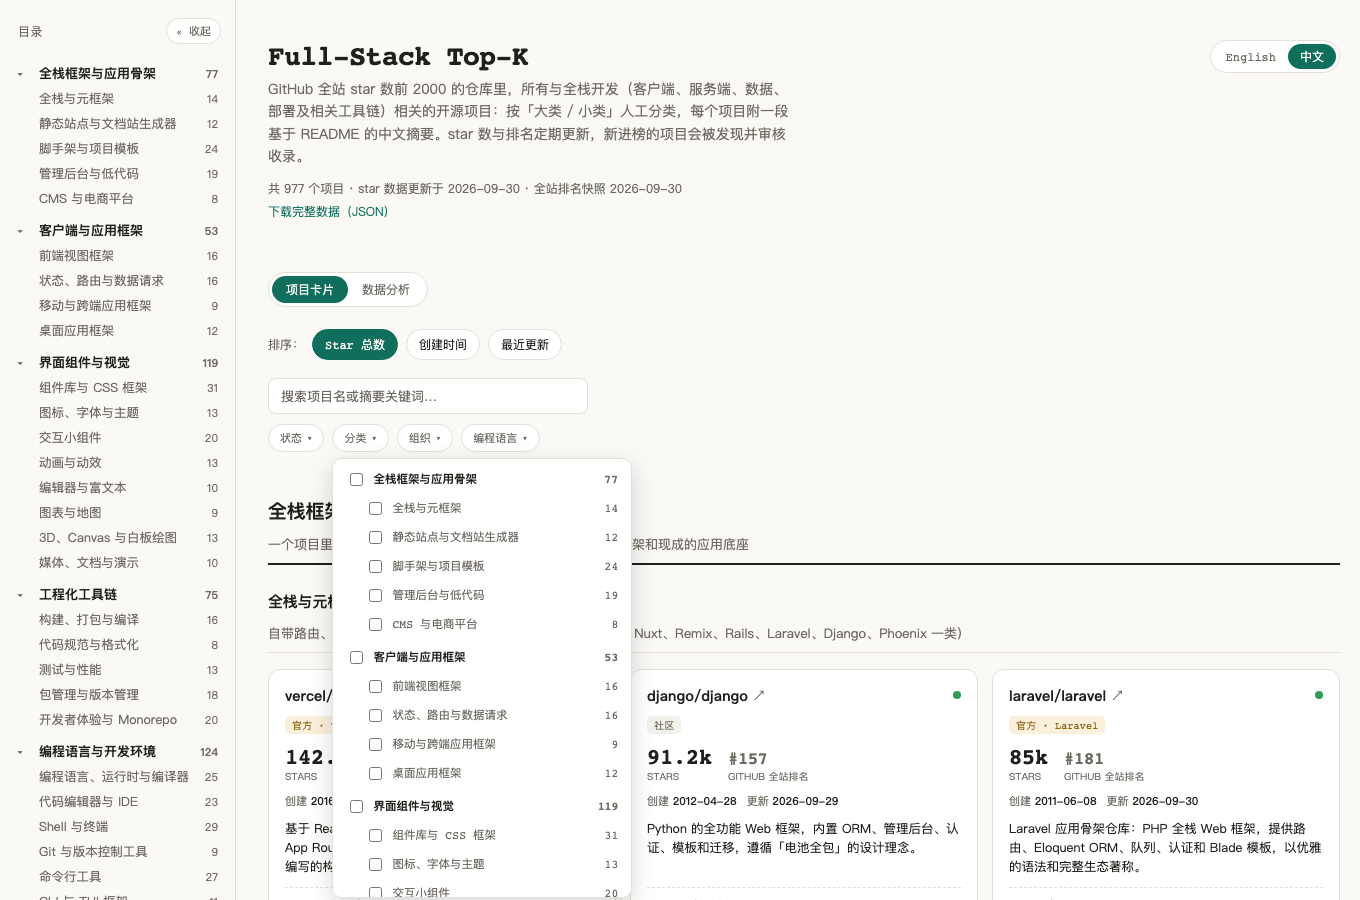
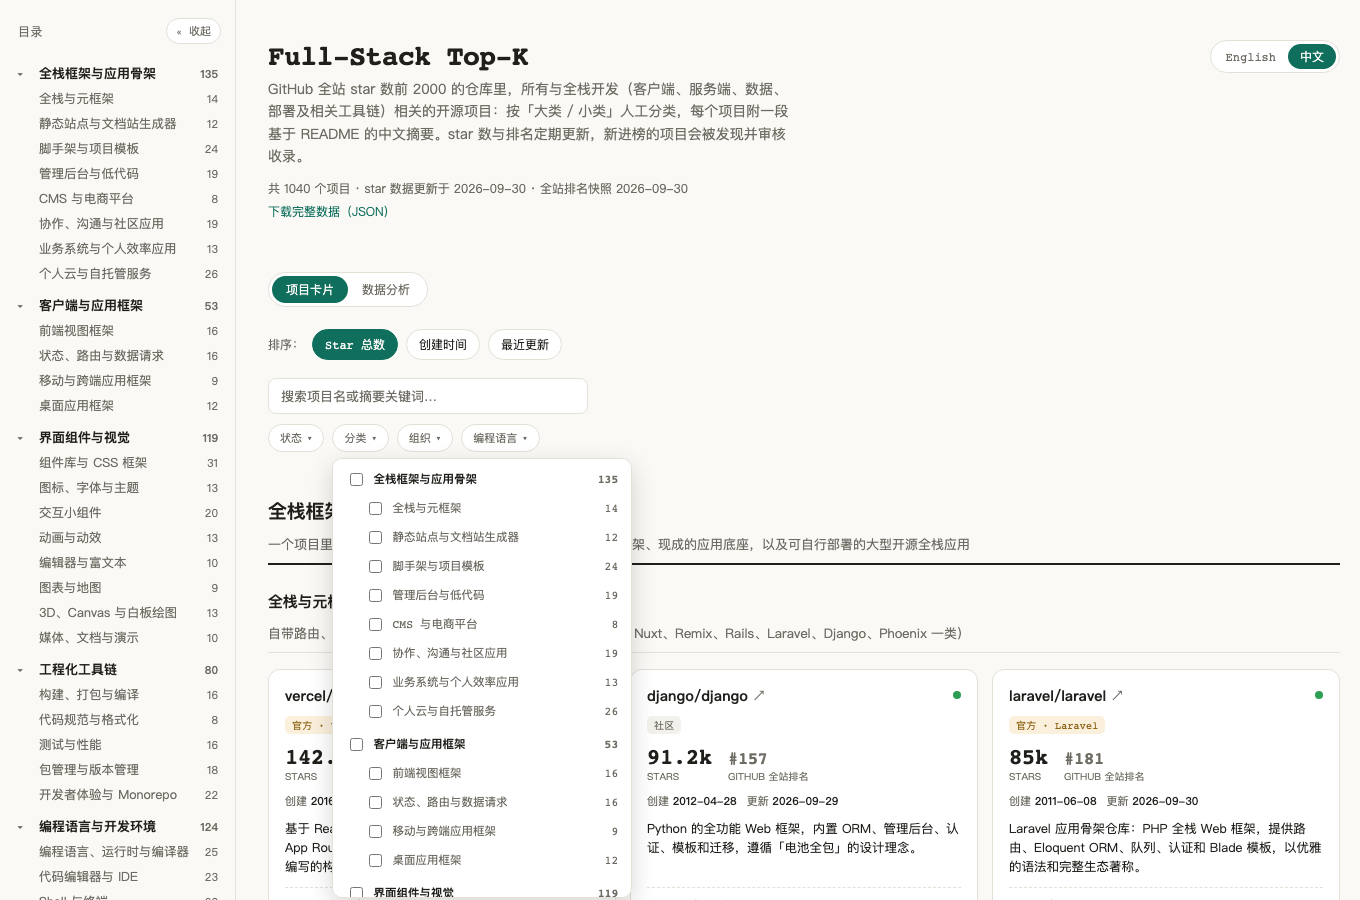
docs: describe self-hostable apps and CI security scanning as in scope
Update the scope, counts (1040 projects, 11 categories, 63 subcategories),
and screenshots.

diff --git a/.claude/CLAUDE.md b/.claude/CLAUDE.md
@@ -24,14 +24,14 @@ python3 scripts/candidates.py           # 找出待审核的新仓库，写入 d
 
 ## 收录标准
 
-**收录**：全栈不止 Web，核心功能是「端到端构建、运行并交付软件要用到的东西」，包括：全栈 / 元框架、脚手架与模板、管理后台与低代码 / 无头 CMS / 无头电商；客户端（前端框架与状态管理、UI 组件库与 CSS、Android / iOS / Flutter / React Native / Electron / Tauri / 小程序、构建与工程化工具链）；服务端（后端与微服务框架、面向应用开发的语言本体与运行时、API 层与网关、数据库 / ORM / BaaS、缓存 / 消息队列 / 搜索等中间件、认证与身份、数据处理与 BI）；交付（Docker / Kubernetes / Terraform 等容器与基础设施即代码、部署与自托管平台、CI/CD 与自托管 Git 平台、监控与可观测）；开发者自己的工具与底层基础，归 `devtools`（编程语言与编译器基础设施、独立编辑器与 IDE、命令行与终端工具、CLI / TUI 框架；C / C++ 通用库归 `libs`）；以及路线图、教程（含语言入门、命令行 / Git / 正则、操作系统底层学习资料）、系统设计与面试资料、设计模式与编码规范、算法与数据结构（多语言实现、刷题题解、可视化）、Awesome 清单（含 C++ / Rust / Shell / 自托管 / 系统管理等开发生态）。
+**收录**：全栈不止 Web，核心功能是「端到端构建、运行并交付软件要用到的东西」，包括：全栈 / 元框架、脚手架与模板、管理后台与低代码 / 无头 CMS / 无头电商；客户端（前端框架与状态管理、UI 组件库与 CSS、Android / iOS / Flutter / React Native / Electron / Tauri / 小程序、构建与工程化工具链）；服务端（后端与微服务框架、面向应用开发的语言本体与运行时、API 层与网关、数据库 / ORM / BaaS、缓存 / 消息队列 / 搜索等中间件、认证与身份、数据处理与 BI）；交付（Docker / Kubernetes / Terraform 等容器与基础设施即代码、部署与自托管平台、CI/CD 与自托管 Git 平台、监控与可观测、CI 中运行的安全扫描）；可自托管的大型开源 Web / 服务端应用，归 `fullstack` 下的 `apps-*` 三个小类（协作与社区、业务系统、个人云与自托管服务）；开发者自己的工具与底层基础，归 `devtools`（编程语言与编译器基础设施、独立编辑器与 IDE、命令行与终端工具、CLI / TUI 框架；C / C++ 通用库归 `libs`）；以及路线图、教程（含语言入门、命令行 / Git / 正则、操作系统底层学习资料）、系统设计与面试资料、设计模式与编码规范、算法与数据结构（多语言实现、刷题题解、可视化）、Awesome 清单（含 C++ / Rust / Shell / 自托管 / 系统管理等开发生态）。
 
 **不收录**：
 - 核心功能是机器学习 / 深度学习 / LLM / Agent 的项目（归 `github-ai-topk`），包括应用层的 LLM 接入 SDK / 工具，即使技术栈是 Web。numpy / pandas 这类 ML 地基库也归那边，这边不收；
 - 与开发无关的通用书单（编程书单、CS 自学路线、算法与数据结构、系统设计、面试指南都收）；
 - 操作系统内核与发行版、数据库以外的纯系统软件、纯运维工具（只做机器管理、与应用交付无关的）；
-- 游戏及游戏引擎、区块链、安全与渗透工具、物联网与硬件，以及「给最终用户用」的终端用户应用（笔记软件、播放器、下载器、代理客户端、桌面实用工具等）。
-- 数据工程如 Airflow / Spark / dbt、DataFrame 引擎和 BI 平台可收，放 `data` 下的 `dataflow`；开发者自己每天用的编辑器 / IDE、终端与命令行工具收，放 `devtools`。判断标准是「开发者拿它来构建软件」还是「最终用户拿它来完成别的事」。
+- 游戏及游戏引擎、区块链、渗透与逆向工具（Trivy、Gitleaks 这类在 CI 里跑的扫描器和调试器除外）、物联网与硬件，以及桌面端 / 手机端的终端用户应用（播放器、下载器、代理客户端、桌面实用工具等）。自托管的 Web / 服务端应用收进 `apps-*`，判断标准是「能自行部署、且是值得参考的全栈应用」，而不是「只有客户端」。
+- 数据工程如 Airflow / Spark / dbt、DataFrame 引擎和 BI 平台可收，放 `data` 下的 `dataflow`；开发者自己每天用的编辑器 / IDE、终端与命令行工具收，放 `devtools`。判断标准是「开发者拿它来构建、运行、交付软件」，或「本身就是一个可自行部署的完整 Web / 服务端应用」；只有桌面 / 手机端界面的终端用户软件不收。
 
 语言本体（Go、Rust、Python、Java、Kotlin、Swift、Dart、TypeScript、JavaScript、PHP……）归入 `language-runtime`，只收面向应用开发的通用语言，不收 Lisp / Haskell 这类学术或小众语言、也不收 Solidity 这类合约语言。
 
@@ -39,7 +39,7 @@ python3 scripts/candidates.py           # 找出待审核的新仓库，写入 d
 
 **拿不准时偏保守，宁可漏收不要错收。**
 
-**分类体系**（2026-09-30 整体重构，共 11 个大类、60 个小类）：`fullstack` 全栈框架与应用骨架、`client` 客户端与应用框架、`ui` 界面组件与视觉、`toolchain` 工程化工具链（项目层面的构建 / 检查 / 测试 / 依赖）、`devtools` 编程语言与开发环境（语言、编辑器、命令行，开发者个人每天直接用的）、`backend` 后端与服务框架、`data` 数据与中间件、`libs` 通用库与 SDK（按语言生态）、`delivery` 部署与运维、`learning` 学习与教程、`guide` 面试、规范与清单。每个小类的边界写在 `taxonomy.json` 的 `def` 里，归类以那里为准。
+**分类体系**（2026-09-30 整体重构，共 11 个大类、63 个小类）：`fullstack` 全栈框架与应用骨架、`client` 客户端与应用框架、`ui` 界面组件与视觉、`toolchain` 工程化工具链（项目层面的构建 / 检查 / 测试 / 依赖）、`devtools` 编程语言与开发环境（语言、编辑器、命令行，开发者个人每天直接用的）、`backend` 后端与服务框架、`data` 数据与中间件、`libs` 通用库与 SDK（按语言生态）、`delivery` 部署与运维、`learning` 学习与教程、`guide` 面试、规范与清单。每个小类的边界写在 `taxonomy.json` 的 `def` 里，归类以那里为准。
 
 **分类体系不是定死的**：收录完成后，按实际项目的分布调整 `taxonomy.json`（合并过小的类、拆分过大的类、补上遗漏的类），并同步更新引用旧 key 的项目。调整时看整体分布，不要只给新项目补类；一个小类超过约 40 个就考虑拆，少于约 5 个就考虑并入相邻的类。
 

diff --git a/README.md b/README.md
@@ -15,7 +15,7 @@ Sister project: [AI Top-K](https://github.com/sigangluo/github-ai-topk), the sam
 
 ## What you can do
 
-- **Browse** hundreds of projects grouped into 11 categories and 60 subcategories, with a sidebar table of contents. Every subcategory has a written definition of what belongs in it.
+- **Browse** hundreds of projects grouped into 11 categories and 63 subcategories, with a sidebar table of contents. Every subcategory has a written definition of what belongs in it.
 - **See each project's real rank** among all GitHub repositories by stars, plus creation date, last push, main languages, and whether the repo is archived.
 - **Filter** by category tree, organization, code language, official vs community, or activity, and search names and summaries.
 - **Analyze** the landscape: category size and activity, new projects per quarter, language trends by creation year, official projects by company, and popular projects that went quiet.
@@ -33,8 +33,8 @@ Sister project: [AI Top-K](https://github.com/sigangluo/github-ai-topk), the sam
 
 The range is set by **rank** (top K by stars), not by taste. A human decides whether each repo is relevant; everything objective comes from the GitHub API.
 
-- **Included**: what a developer uses to build, run, and ship software end to end: full-stack frameworks and starters, admin / low-code / headless CMS and commerce; client side (front-end frameworks, UI components, mobile / desktop / cross-platform frameworks, build tooling); server side (back-end frameworks, application languages and runtimes, API layers, databases and ORMs, messaging / search middleware, authentication, data processing and BI); delivery (containers and infrastructure as code, deployment platforms, CI/CD and self-hosted Git platforms, monitoring); the developer's own tools and foundations (editors and IDEs, the command line and terminal, CLI / TUI frameworks, C / C++ foundation libraries, compiler infrastructure); plus roadmaps, tutorials, system-design and interview material, design patterns and coding guidelines, algorithms and data structures, and awesome lists.
-- **Excluded**: projects whose core is machine learning, deep learning, LLMs, or agents (they live in the sister list), games and game engines, blockchain, security and penetration tools, IoT and hardware, and end-user applications (media players, note-taking apps, proxy clients, desktop utilities) as opposed to tools developers use to build software. When unsure, it stays out.
+- **Included**: what a developer uses to build, run, and ship software end to end: full-stack frameworks and starters, admin / low-code / headless CMS and commerce; client side (front-end frameworks, UI components, mobile / desktop / cross-platform frameworks, build tooling); server side (back-end frameworks, application languages and runtimes, API layers, databases and ORMs, messaging / search middleware, authentication, data processing and BI); delivery (containers and infrastructure as code, deployment platforms, CI/CD and self-hosted Git platforms, monitoring, security scanning that runs in CI); large self-hostable open-source web and server applications (collaboration, chat, CRM / ERP, forums, personal cloud, and similar), which double as production-grade full-stack reference apps; the developer's own tools and foundations (editors and IDEs, the command line and terminal, CLI / TUI frameworks, C / C++ foundation libraries, compiler infrastructure); plus roadmaps, tutorials, system-design and interview material, design patterns and coding guidelines, algorithms and data structures, and awesome lists.
+- **Excluded**: projects whose core is machine learning, deep learning, LLMs, or agents (they live in the sister list), games and game engines, blockchain, penetration-testing and reverse-engineering tools, IoT and hardware, and desktop or mobile end-user applications (media players, downloaders, proxy clients, desktop utilities). When unsure, it stays out.
 - **Official vs community**: a repo is "official" only if its GitHub organization *is* the company itself. Foundations, community orgs, and projects handed over to the community count as "community".
 
 The taxonomy, with a definition for each subcategory, is in [data/taxonomy.json](data/taxonomy.json).

diff --git a/README.zh-CN.md b/README.zh-CN.md
@@ -15,7 +15,7 @@ GitHub 全站 star 排名前 K（当前 K = 2000）的仓库里，所有与**全
 
 ## 能做什么
 
-- **浏览**：数百个项目按 11 个大类、60 个小类整理，带侧边目录；每个小类都写明了收录边界。
+- **浏览**：数百个项目按 11 个大类、63 个小类整理，带侧边目录；每个小类都写明了收录边界。
 - **看排名**：每个项目都标出它在 GitHub 全站按 star 的真实名次，以及创建时间、最近推送、主要语言、是否已归档。
 - **筛选**：按分类树、组织、编程语言、官方 / 社区、活跃度筛选，也可以搜索项目名和摘要。
 - **分析**：各分类的规模与活跃度、每季度新建项目数、按创建年份看语言变化、各公司官方出品、高 star 但已经沉寂的项目。
@@ -33,8 +33,8 @@ GitHub 全站 star 排名前 K（当前 K = 2000）的仓库里，所有与**全
 
 范围由**排名**决定（前 K 名），而不是作者的口味；是否相关由人工逐个判断，客观数据全部由脚本从 GitHub 拉取。
 
-- **收录**：开发者端到端构建、运行并发布软件所用到的项目——全栈框架与脚手架、管理后台 / 低代码 / 无头 CMS 与无头电商；客户端（前端框架、UI 组件、移动 / 桌面 / 跨端框架、构建工具链）；服务端（后端框架、应用开发语言与运行时、API 层、数据库与 ORM、消息 / 搜索中间件、认证、数据处理与 BI）；交付（容器与基础设施即代码、部署平台、CI/CD 与自托管 Git 平台、监控）；开发者自己的工具与底层基础（编辑器与 IDE、命令行与终端、CLI / TUI 框架、C / C++ 基础库、编译器基础设施）；以及路线图、教程、系统设计与面试资料、设计模式与编码规范、算法与数据结构和 Awesome 清单。
-- **不收录**：核心是机器学习、深度学习、LLM 或 Agent 的项目（归姊妹列表）、游戏与游戏引擎、区块链、安全与渗透工具、物联网与硬件，以及终端用户应用（播放器、笔记软件、代理客户端、桌面工具等），也就是「给最终用户用」而不是「开发者拿来构建软件」的项目；拿不准的不收。
+- **收录**：开发者端到端构建、运行并发布软件所用到的项目——全栈框架与脚手架、管理后台 / 低代码 / 无头 CMS 与无头电商；客户端（前端框架、UI 组件、移动 / 桌面 / 跨端框架、构建工具链）；服务端（后端框架、应用开发语言与运行时、API 层、数据库与 ORM、消息 / 搜索中间件、认证、数据处理与 BI）；交付（容器与基础设施即代码、部署平台、CI/CD 与自托管 Git 平台、监控、CI 中运行的安全扫描）；可自托管的大型开源 Web / 服务端应用（协作、聊天、CRM / ERP、论坛、个人云等，兼具生产级全栈应用的参考价值）；开发者自己的工具与底层基础（编辑器与 IDE、命令行与终端、CLI / TUI 框架、C / C++ 基础库、编译器基础设施）；以及路线图、教程、系统设计与面试资料、设计模式与编码规范、算法与数据结构和 Awesome 清单。
+- **不收录**：核心是机器学习、深度学习、LLM 或 Agent 的项目（归姊妹列表）、游戏与游戏引擎、区块链、渗透与逆向工具、物联网与硬件，以及桌面端或手机端的终端用户应用（播放器、下载器、代理客户端、桌面工具等）；拿不准的不收。
 - **官方 / 社区**：仓库所在的 GitHub 组织就是该公司本身才算「官方」；基金会、社区组织、已移交社区维护的项目一律算「社区」。
 
 分类体系和每个小类的边界定义见 [data/taxonomy.json](data/taxonomy.json)。
